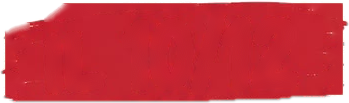
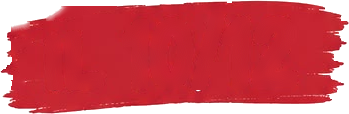
Mercatino: pennellata rossa della data con i bordi sfrangiati originali
Claude-Session: https://claude.ai/code/session_01QiXtdXCYmGgpcQ7eY99SmW

Changed region(s): [[0.0, 0.0, 1.0, 1.0], [0.1433, 0.0583, 0.1719, 0.1165], [0.5444, 0.7864, 0.5731, 0.8155]]

diff --git a/js/templates.js b/js/templates.js
@@ -1355,9 +1355,9 @@ window.BUILTIN_TEMPLATES = [
 "type": "image",
 "src": "assets/stickers/riquadri/pennellata_rossa.png",
 "x": 385,
-"y": 1271,
+"y": 1274,
 "w": 368,
-"h": 109,
+"h": 120,
 "t": {
 "text": "IL 10/12",
 "font": "Fredoka",
@@ -1942,7 +1942,7 @@ window.STICKER_CATALOG = [
 "src": "assets/stickers/riquadri/pennellata_rossa.png",
 "name": "Pennellata rossa",
 "w": 349,
-"h": 103
+"h": 114
 }
 ]
 },
